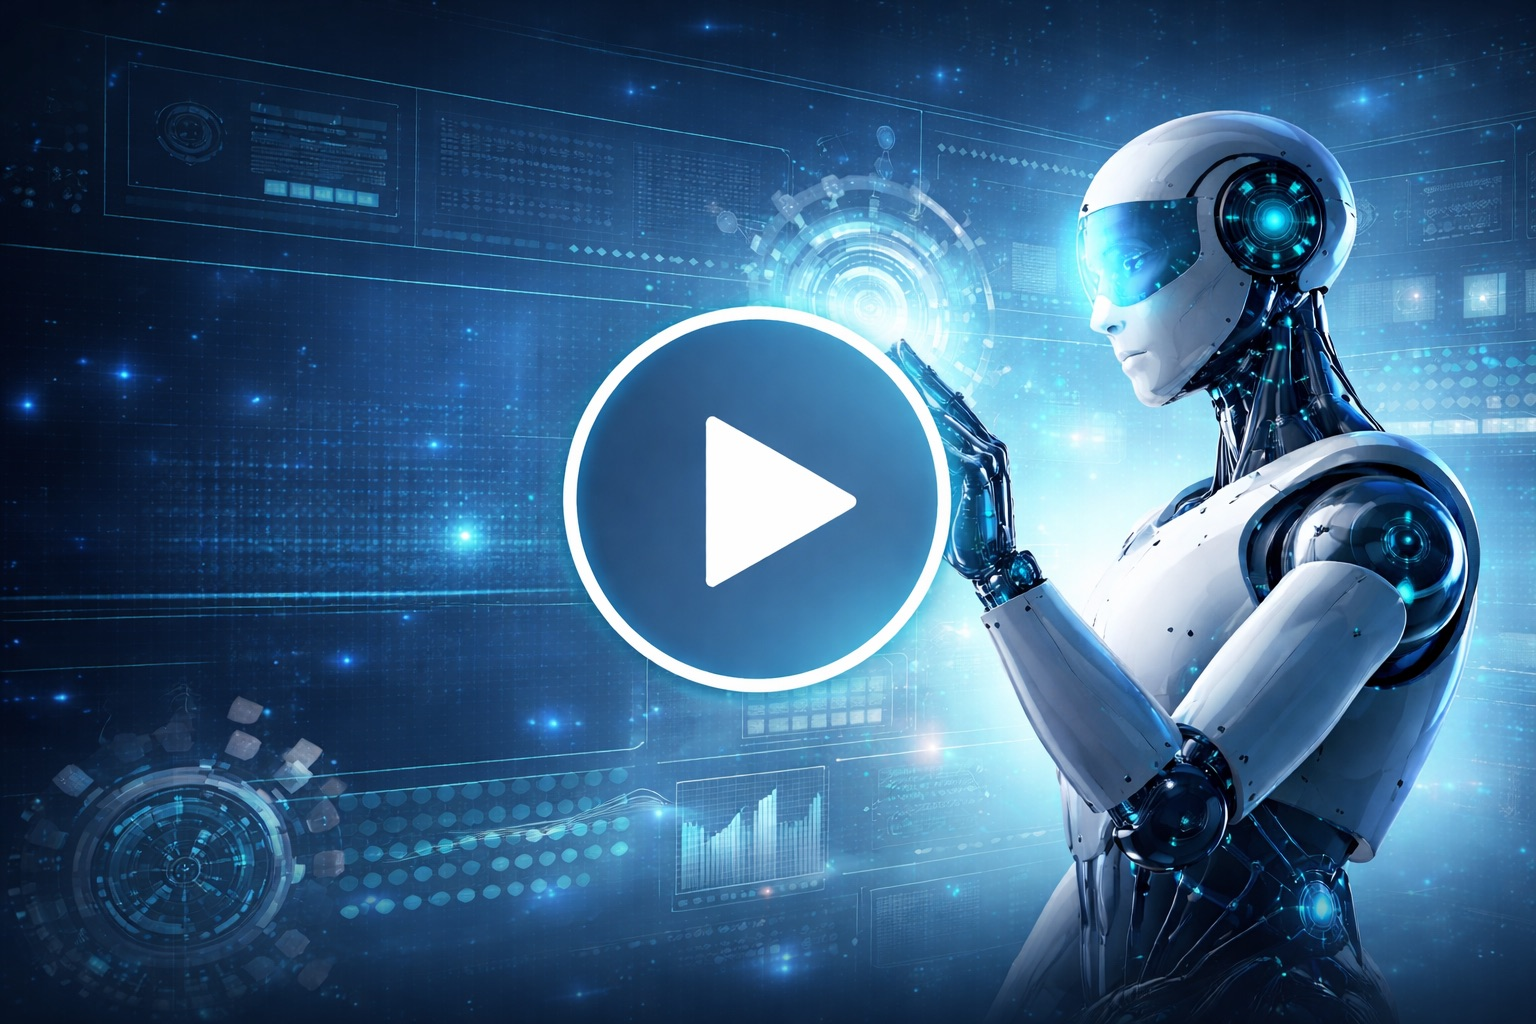
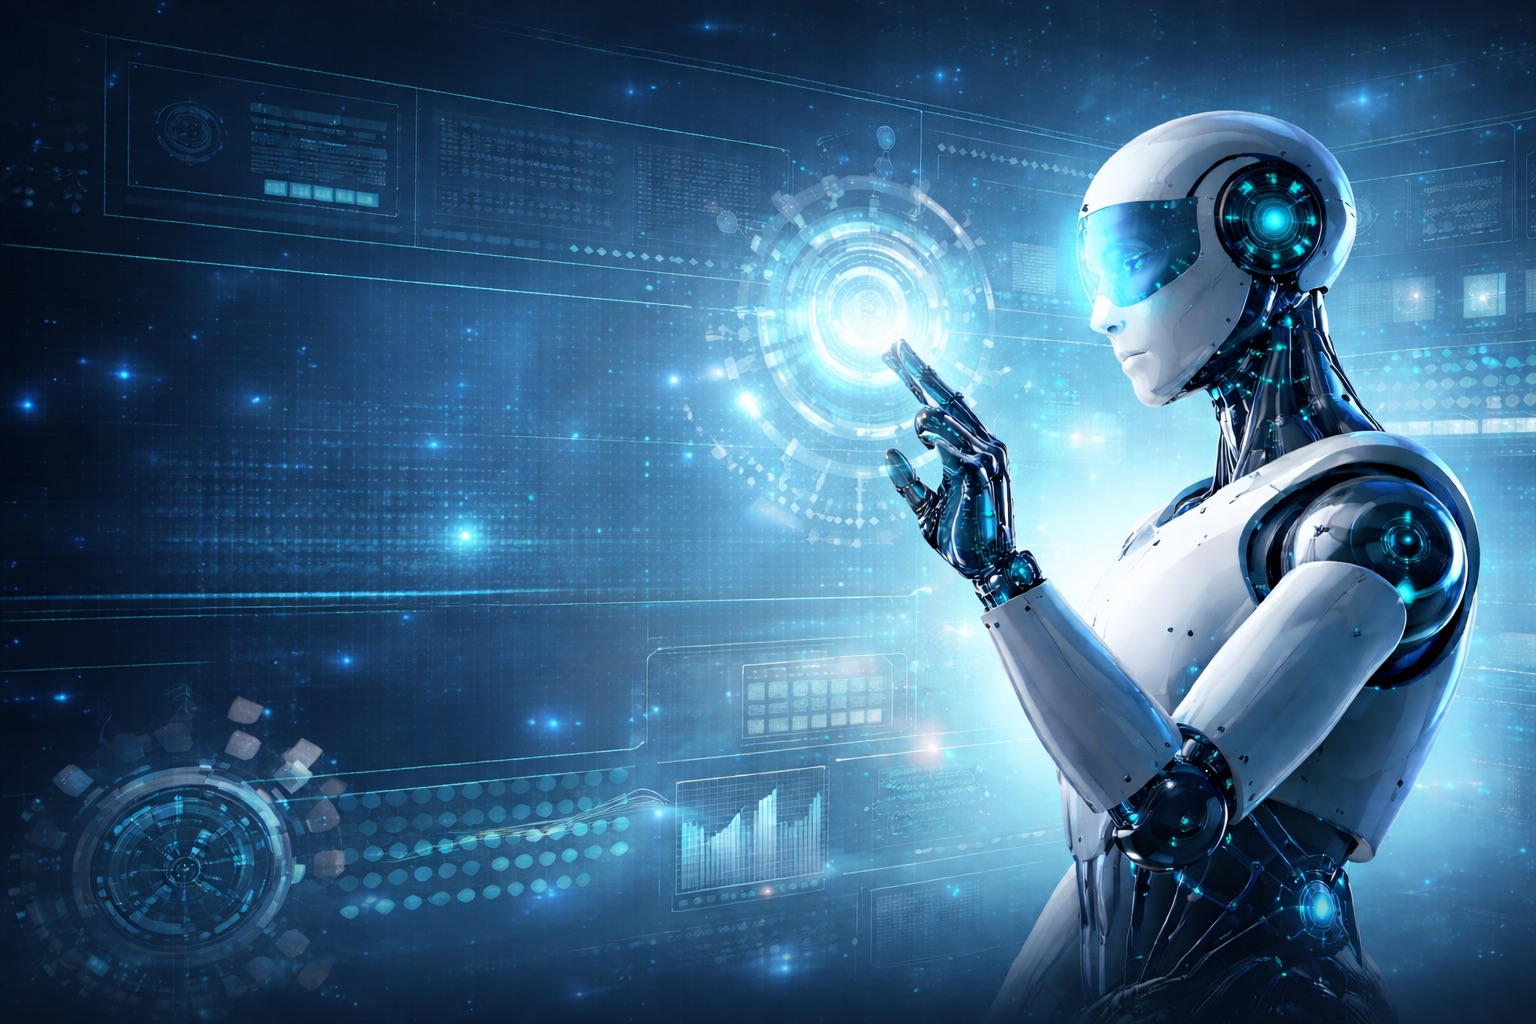
Kalender-Link für Teammitglieder & Roadmap Design Update
- TeamMember: calendlyUrl Feld hinzugefügt
- Admin Team: Kalender-Link in Modals bearbeitbar
- Kundenportal: "Termin vereinbaren" Button bei Ansprechpartner
- Roadmap: Summary Cards neutral (nicht mehr bunt)
- Roadmap: Gesamtfortschritt entfernt
- Roadmap: Spalten-Header wie im Admin-Board (border-bottom)
- Moduldetail: Fortschrittsbalken aus Sidebar entfernt
- Video-Thumbnail: Play-Button Overlay hinzugefügt

🤖 Generated with [Claude Code](https://claude.com/claude-code)

Changed region(s): [[0.3438, 0.2188, 0.6562, 0.6875], [0.7812, 0.375, 0.8125, 0.4062]]

diff --git a/src/app/(customer)/roadmap/page.tsx b/src/app/(customer)/roadmap/page.tsx
@@ -11,7 +11,6 @@ import { useCustomer } from '@/hooks/use-customers'
 import { useAuth } from '@/hooks/use-auth'
 import { formatDate } from '@/lib/utils'
 import {
-  Map,
   Calendar,
   Target,
   CheckCircle2,
@@ -36,10 +35,10 @@ export default function RoadmapPage() {
   const [priorityFilter, setPriorityFilter] = useState<'all' | 'hoch' | 'mittel' | 'niedrig'>('all')
 
   const statusConfig = {
-    geplant: { label: 'Geplant', color: 'bg-gray-100', textColor: 'text-gray-600', icon: Calendar },
-    in_arbeit: { label: 'In Arbeit', color: 'bg-blue-100', textColor: 'text-blue-600', icon: Clock },
-    im_test: { label: 'Im Test', color: 'bg-purple-100', textColor: 'text-purple-600', icon: FlaskConical },
-    abgeschlossen: { label: 'Abgeschlossen', color: 'bg-green-100', textColor: 'text-green-600', icon: CheckCircle2 },
+    geplant: { label: 'Geplant', color: 'bg-gray-100', textColor: 'text-gray-600', icon: Calendar, columnColor: 'border-gray-300' },
+    in_arbeit: { label: 'In Arbeit', color: 'bg-blue-100', textColor: 'text-blue-600', icon: Clock, columnColor: 'border-blue-400' },
+    im_test: { label: 'Im Test', color: 'bg-purple-100', textColor: 'text-purple-600', icon: FlaskConical, columnColor: 'border-purple-400' },
+    abgeschlossen: { label: 'Abgeschlossen', color: 'bg-green-100', textColor: 'text-green-600', icon: CheckCircle2, columnColor: 'border-green-400' },
   }
 
   const priorityConfig = {
@@ -159,31 +158,16 @@ ${item.acceptanceCriteria?.map((c: any, i: number) => `  ${i + 1}. ${c.descripti
         )}
 
         {/* Summary Cards */}
-        <div className="mb-6 grid gap-4 md:grid-cols-6">
-          <Card>
-            <CardContent className="pt-6">
-              <div className="flex items-center justify-between">
-                <div>
-                  <p className="text-sm text-gray-500">Gesamtfortschritt</p>
-                  <p className="text-2xl font-bold">{totalProgress}%</p>
-                </div>
-                <div className="rounded-lg bg-primary-100 p-3">
-                  <Map className="h-6 w-6 text-primary-600" />
-                </div>
-              </div>
-              <Progress value={totalProgress} size="sm" className="mt-3" />
-            </CardContent>
-          </Card>
-
+        <div className="mb-6 grid gap-4 md:grid-cols-5">
           <Card>
             <CardContent className="pt-6">
               <div className="flex items-center justify-between">
                 <div>
                   <p className="text-sm text-gray-500">Geplant</p>
-                  <p className="text-2xl font-bold text-gray-600">{itemsByStatus.geplant.length}</p>
+                  <p className="text-2xl font-bold text-gray-900">{itemsByStatus.geplant.length}</p>
                 </div>
                 <div className="rounded-lg bg-gray-100 p-3">
-                  <Calendar className="h-6 w-6 text-gray-600" />
+                  <Calendar className="h-6 w-6 text-gray-500" />
                 </div>
               </div>
             </CardContent>
@@ -194,10 +178,10 @@ ${item.acceptanceCriteria?.map((c: any, i: number) => `  ${i + 1}. ${c.descripti
               <div className="flex items-center justify-between">
                 <div>
                   <p className="text-sm text-gray-500">In Arbeit</p>
-                  <p className="text-2xl font-bold text-blue-600">{itemsByStatus.in_arbeit.length}</p>
+                  <p className="text-2xl font-bold text-gray-900">{itemsByStatus.in_arbeit.length}</p>
                 </div>
-                <div className="rounded-lg bg-blue-100 p-3">
-                  <Clock className="h-6 w-6 text-blue-600" />
+                <div className="rounded-lg bg-gray-100 p-3">
+                  <Clock className="h-6 w-6 text-gray-500" />
                 </div>
               </div>
             </CardContent>
@@ -208,10 +192,10 @@ ${item.acceptanceCriteria?.map((c: any, i: number) => `  ${i + 1}. ${c.descripti
               <div className="flex items-center justify-between">
                 <div>
                   <p className="text-sm text-gray-500">Im Test</p>
-                  <p className="text-2xl font-bold text-purple-600">{itemsByStatus.im_test.length}</p>
+                  <p className="text-2xl font-bold text-gray-900">{itemsByStatus.im_test.length}</p>
                 </div>
-                <div className="rounded-lg bg-purple-100 p-3">
-                  <FlaskConical className="h-6 w-6 text-purple-600" />
+                <div className="rounded-lg bg-gray-100 p-3">
+                  <FlaskConical className="h-6 w-6 text-gray-500" />
                 </div>
               </div>
             </CardContent>
@@ -222,10 +206,10 @@ ${item.acceptanceCriteria?.map((c: any, i: number) => `  ${i + 1}. ${c.descripti
               <div className="flex items-center justify-between">
                 <div>
                   <p className="text-sm text-gray-500">Abgeschlossen</p>
-                  <p className="text-2xl font-bold text-green-600">{itemsByStatus.abgeschlossen.length}</p>
+                  <p className="text-2xl font-bold text-gray-900">{itemsByStatus.abgeschlossen.length}</p>
                 </div>
-                <div className="rounded-lg bg-green-100 p-3">
-                  <CheckCircle2 className="h-6 w-6 text-green-600" />
+                <div className="rounded-lg bg-gray-100 p-3">
+                  <CheckCircle2 className="h-6 w-6 text-gray-500" />
                 </div>
               </div>
             </CardContent>
@@ -236,10 +220,10 @@ ${item.acceptanceCriteria?.map((c: any, i: number) => `  ${i + 1}. ${c.descripti
               <div className="flex items-center justify-between">
                 <div>
                   <p className="text-sm text-gray-500">Ausstehend</p>
-                  <p className="text-2xl font-bold text-yellow-600">{pendingCount}</p>
+                  <p className="text-2xl font-bold text-gray-900">{pendingCount}</p>
                 </div>
-                <div className="rounded-lg bg-yellow-100 p-3">
-                  <FileCheck className="h-6 w-6 text-yellow-600" />
+                <div className="rounded-lg bg-gray-100 p-3">
+                  <FileCheck className="h-6 w-6 text-gray-500" />
                 </div>
               </div>
             </CardContent>
@@ -297,12 +281,11 @@ ${item.acceptanceCriteria?.map((c: any, i: number) => `  ${i + 1}. ${c.descripti
 
               return (
                 <div key={status} className="space-y-4">
-                  <div className={`flex items-center gap-2 rounded-lg p-3 ${config.color}`}>
-                    <StatusIcon className={`h-5 w-5 ${config.textColor}`} />
-                    <h3 className={`font-semibold ${config.textColor}`}>{config.label}</h3>
-                    <Badge variant="secondary" className="ml-auto">
+                  <div className={`flex items-center justify-between mb-3 pb-2 border-b-2 ${config.columnColor}`}>
+                    <span className="font-medium text-gray-700">{config.label}</span>
+                    <span className="px-2 py-0.5 rounded-full bg-gray-100 text-xs text-gray-600">
                       {items.length}
-                    </Badge>
+                    </span>
                   </div>
 
                   <div className="space-y-3">

diff --git a/src/app/admin/team/page.tsx b/src/app/admin/team/page.tsx
@@ -3,7 +3,7 @@
 import { useState, useRef } from 'react'
 import { AdminHeader } from '@/components/admin/admin-header'
 import { useTeam } from '@/hooks/use-team'
-import { Plus, Search, Edit, User, Building2, Phone, Mail, Loader2, Users, Upload, X, Camera, Cpu, Trash2 } from 'lucide-react'
+import { Plus, Search, Edit, User, Building2, Phone, Mail, Loader2, Users, Upload, X, Camera, Cpu, Trash2, Calendar } from 'lucide-react'
 import Image from 'next/image'
 
 // Vordefinierte Rollen
@@ -48,6 +48,7 @@ export default function TeamPage() {
     department: '',
     email: '',
     avatarUrl: '',
+    calendlyUrl: '',
   })
 
   // Form state for editing team member
@@ -58,6 +59,7 @@ export default function TeamPage() {
     department: string
     email: string
     avatarUrl: string
+    calendlyUrl: string
   } | null>(null)
 
   const filteredMembers = (teamMembers || []).filter((member: any) =>
@@ -108,7 +110,7 @@ export default function TeamPage() {
       })
       mutate()
       setShowNewMemberModal(false)
-      setNewMember({ name: '', role: '', department: '', email: '', avatarUrl: '' })
+      setNewMember({ name: '', role: '', department: '', email: '', avatarUrl: '', calendlyUrl: '' })
     } catch (error) {
       console.error('Error creating team member:', error)
     } finally {
@@ -130,6 +132,7 @@ export default function TeamPage() {
           department: editMember.department,
           email: editMember.email,
           avatarUrl: editMember.avatarUrl,
+          calendlyUrl: editMember.calendlyUrl,
         }),
       })
       mutate()
@@ -164,6 +167,7 @@ export default function TeamPage() {
       department: member.department || '',
       email: member.email || '',
       avatarUrl: member.avatarUrl || '',
+      calendlyUrl: member.calendlyUrl || '',
     })
     setShowEditMemberModal(true)
   }
@@ -341,7 +345,7 @@ export default function TeamPage() {
                 <button
                   onClick={() => {
                     setShowNewMemberModal(false)
-                    setNewMember({ name: '', role: '', department: '', email: '', avatarUrl: '' })
+                    setNewMember({ name: '', role: '', department: '', email: '', avatarUrl: '', calendlyUrl: '' })
                   }}
                   className="text-gray-400 hover:text-gray-600"
                 >
@@ -448,13 +452,27 @@ export default function TeamPage() {
                     className="w-full rounded-lg border border-gray-200 px-3 py-2 text-sm focus:border-primary-500 focus:outline-none focus:ring-1 focus:ring-primary-500"
                   />
                 </div>
+
+                <div>
+                  <label className="block text-sm font-medium text-gray-700 mb-1">Kalender-Link</label>
+                  <input
+                    type="url"
+                    placeholder="https://calendly.com/max-mustermann"
+                    value={newMember.calendlyUrl}
+                    onChange={(e) => setNewMember({ ...newMember, calendlyUrl: e.target.value })}
+                    className="w-full rounded-lg border border-gray-200 px-3 py-2 text-sm focus:border-primary-500 focus:outline-none focus:ring-1 focus:ring-primary-500"
+                  />
+                  <p className="mt-1 text-xs text-gray-500">
+                    Link für Terminbuchung (z.B. Calendly, Cal.com)
+                  </p>
+                </div>
               </div>
 
               <div className="flex items-center justify-end gap-3 border-t border-gray-200 px-6 py-4">
                 <button
                   onClick={() => {
                     setShowNewMemberModal(false)
-                    setNewMember({ name: '', role: '', department: '', email: '', avatarUrl: '' })
+                    setNewMember({ name: '', role: '', department: '', email: '', avatarUrl: '', calendlyUrl: '' })
                   }}
                   className="rounded-lg border border-gray-200 px-4 py-2 text-sm font-medium text-gray-700 hover:bg-gray-50 transition-colors"
                 >
@@ -594,6 +612,20 @@ export default function TeamPage() {
                     onChange={(e) => setEditMember({ ...editMember, email: e.target.value })}
                     className="w-full rounded-lg border border-gray-200 px-3 py-2 text-sm focus:border-primary-500 focus:outline-none focus:ring-1 focus:ring-primary-500"
                   />
+                </div>
+
+                <div>
+                  <label className="block text-sm font-medium text-gray-700 mb-1">Kalender-Link</label>
+                  <input
+                    type="url"
+                    placeholder="https://calendly.com/max-mustermann"
+                    value={editMember.calendlyUrl}
+                    onChange={(e) => setEditMember({ ...editMember, calendlyUrl: e.target.value })}
+                    className="w-full rounded-lg border border-gray-200 px-3 py-2 text-sm focus:border-primary-500 focus:outline-none focus:ring-1 focus:ring-primary-500"
+                  />
+                  <p className="mt-1 text-xs text-gray-500">
+                    Link für Terminbuchung (z.B. Calendly, Cal.com)
+                  </p>
                 </div>
               </div>
 

diff --git a/src/app/(customer)/roadmap/[id]/page.tsx b/src/app/(customer)/roadmap/[id]/page.tsx
@@ -757,22 +757,6 @@ ${i + 1}. ${formatDate(tf.date)}: ${tf.feedback} ${tf.resolved ? '[Erledigt]' : 
                   </a>
                 )}
 
-                {/* Progress - Only show if not completed and not planned */}
-                {project.status !== 'abgeschlossen' && project.status !== 'geplant' && (
-                  <div>
-                    <div className="flex items-center justify-between text-sm mb-2">
-                      <span className="text-gray-600">Fortschritt</span>
-                      <span className="font-semibold text-gray-900">{project.progress}%</span>
-                    </div>
-                    <div className="h-2 rounded-full bg-gray-200 overflow-hidden">
-                      <div
-                        className="h-full rounded-full bg-primary-500 transition-all"
-                        style={{ width: `${project.progress}%` }}
-                      />
-                    </div>
-                  </div>
-                )}
-
                 {/* Maintenance Points */}
                 <div className="flex items-center justify-between rounded-lg bg-gray-50 p-3">
                   <div className="flex items-center gap-2">
@@ -792,14 +776,27 @@ ${i + 1}. ${formatDate(tf.date)}: ${tf.feedback} ${tf.resolved ? '[Erledigt]' : 
 
                 {/* Internal Contact */}
                 {project.assignee && (
-                  <div className="flex items-center gap-3 rounded-lg border border-gray-200 p-3">
-                    <div className="flex h-10 w-10 items-center justify-center rounded-full bg-gray-100">
-                      <User className="h-5 w-5 text-gray-600" />
+                  <div className="rounded-lg border border-gray-200 p-3">
+                    <div className="flex items-center gap-3">
+                      <div className="flex h-10 w-10 items-center justify-center rounded-full bg-gray-100">
+                        <User className="h-5 w-5 text-gray-600" />
+                      </div>
+                      <div>
+                        <p className="text-xs text-gray-500">Ihr Ansprechpartner</p>
+                        <p className="text-sm font-medium text-gray-900">{project.assignee.name}</p>
+                      </div>
                     </div>
-                    <div>
-                      <p className="text-xs text-gray-500">Ihr Ansprechpartner</p>
-                      <p className="text-sm font-medium text-gray-900">{project.assignee.name}</p>
-                    </div>
+                    {project.assignee.calendlyUrl && (
+                      <a
+                        href={project.assignee.calendlyUrl}
+                        target="_blank"
+                        rel="noopener noreferrer"
+                        className="mt-3 flex items-center justify-center gap-2 rounded-lg bg-primary-600 px-4 py-2 text-sm font-medium text-white hover:bg-primary-700 transition-colors w-full"
+                      >
+                        <Calendar className="h-4 w-4" />
+                        Termin vereinbaren
+                      </a>
+                    )}
                   </div>
                 )}
               </CardContent>
@@ -829,6 +826,12 @@ ${i + 1}. ${formatDate(tf.date)}: ${tf.feedback} ${tf.resolved ? '[Erledigt]' : 
                             (e.target as HTMLImageElement).src = '/images/video-placeholder.jpg'
                           }}
                         />
+                        {/* Play Button Overlay */}
+                        <div className="absolute inset-0 flex items-center justify-center">
+                          <div className="flex h-14 w-14 items-center justify-center rounded-full bg-black/60 group-hover:bg-black/70 group-hover:scale-110 transition-all shadow-lg">
+                            <PlayCircle className="h-8 w-8 text-white ml-0.5" />
+                          </div>
+                        </div>
                       </div>
                       <div className="p-3 bg-gray-50">
                         <p className="text-sm font-medium text-gray-900 flex items-center gap-2">

diff --git a/src/app/api/team/[id]/route.ts b/src/app/api/team/[id]/route.ts
@@ -51,6 +51,7 @@ export async function PATCH(
     if (body.department !== undefined) updateData.department = body.department
     if (body.email !== undefined) updateData.email = body.email
     if (body.avatarUrl !== undefined) updateData.avatarUrl = body.avatarUrl || null
+    if (body.calendlyUrl !== undefined) updateData.calendlyUrl = body.calendlyUrl || null
 
     const updatedMember = await prisma.teamMember.update({
       where: { id: params.id },

diff --git a/src/app/api/team/route.ts b/src/app/api/team/route.ts
@@ -44,6 +44,7 @@ export async function POST(request: Request) {
         department: body.department,
         email: body.email,
         avatarUrl: body.avatarUrl,
+        calendlyUrl: body.calendlyUrl,
       },
     })
 
